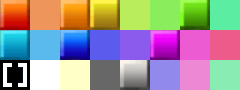
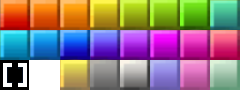
Techmino: Unofficial Expansion v0.2

diff --git a/readme.md b/readme.md
@@ -3,7 +3,7 @@ Techmino: Unofficial Expansion
 
 Download the original game [Techmino](https://github.com/26F-Studio/Techmino).
 
-v0.1 (d01.m08.y2023):
+v0.1 just released! Things added: Master DEATH mode, classic/world skins.
 
 Master DEATH: Master DEATH is T.A. Death mode that has been ported to Techmino and changed a bit. It starts with regular 20G with pretty big delays, and reaches its' maximum speed at lv500. Complete all 999 levels in a       certain time limit to get an X rank! (Good luck getting X rank in ARS_Z with flipped spawns :D)
     
